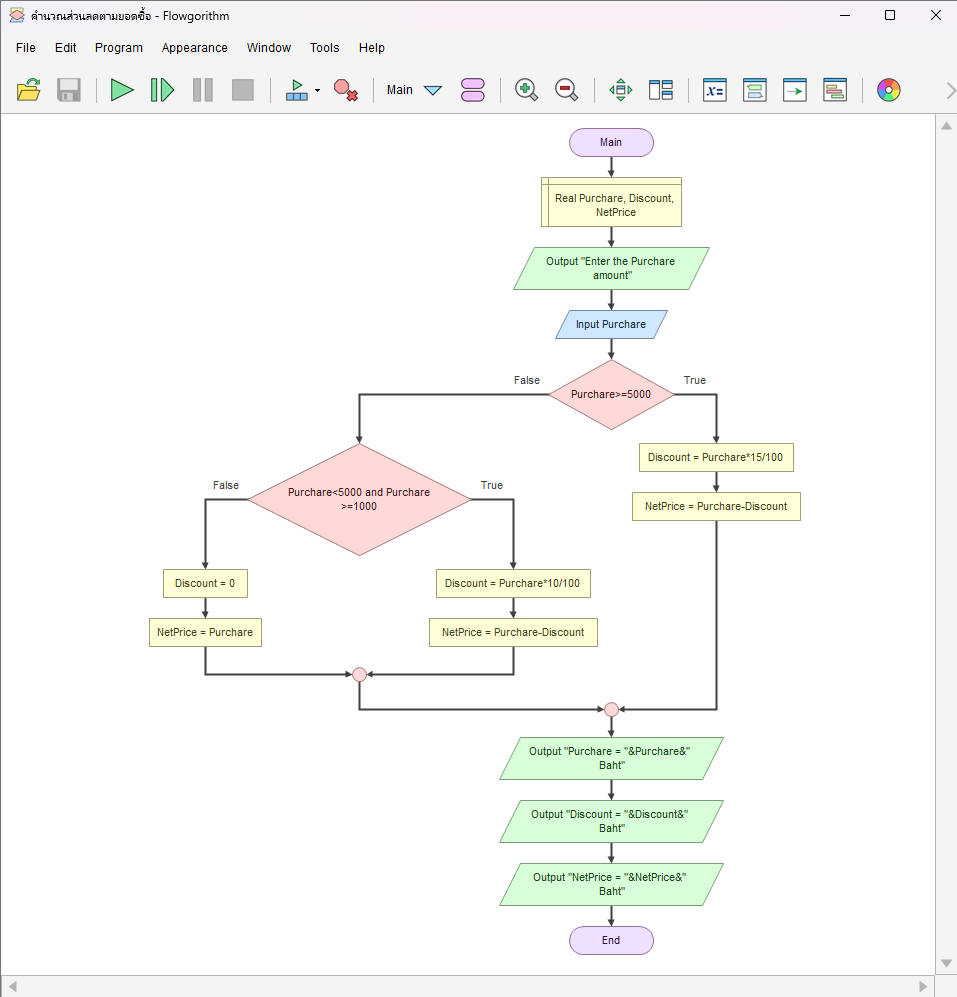
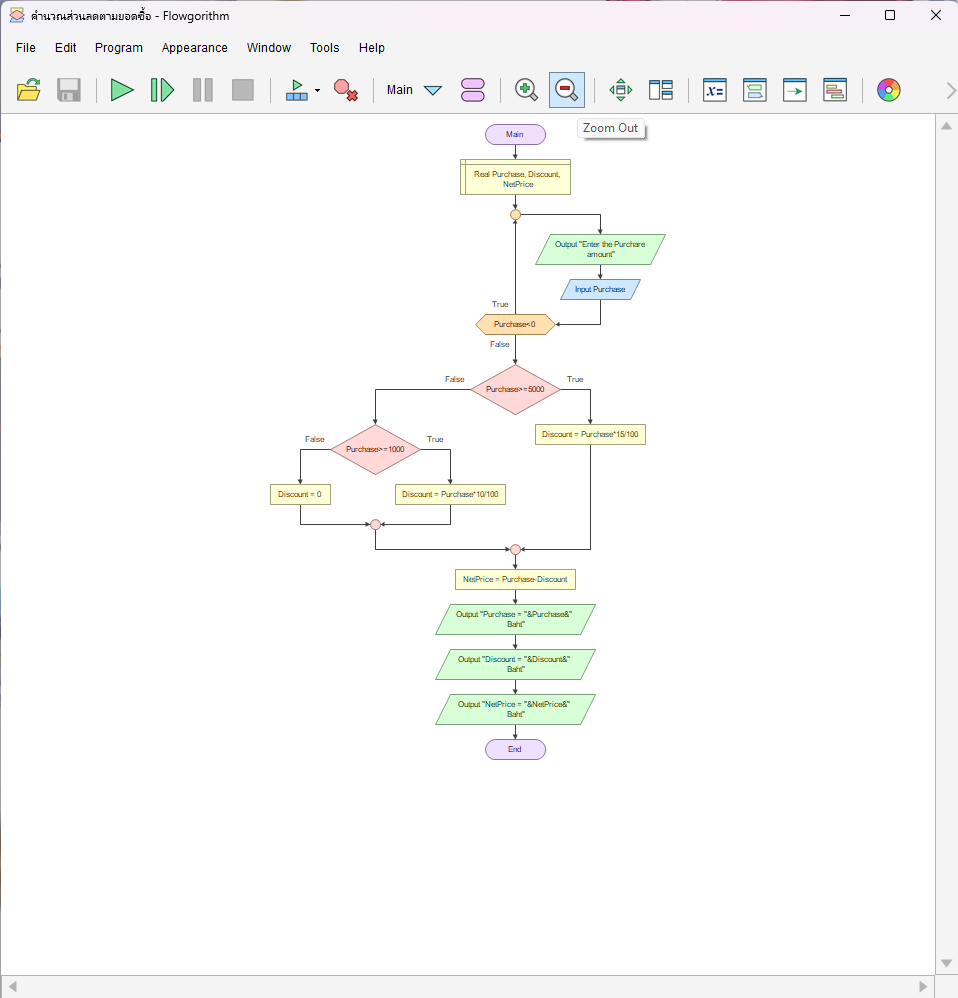
Update corrected discount and amusement park exercises

diff --git a/05-if-else-practice-2026-07-26/คำนวณส่วนลดตามยอดซื้อ.md b/05-if-else-practice-2026-07-26/คำนวณส่วนลดตามยอดซื้อ.md
@@ -2,13 +2,13 @@
 
 [← กลับหน้าหลัก](../README.md) · [ดาวน์โหลดไฟล์ Flowgorithm](<./คำนวณส่วนลดตามยอดซื้อ.fprg>)
 
-> **สถานะ:** บันทึกตามไฟล์ต้นฉบับของวันที่ 07/26/2026
+> **แบบฝึก:** 07/26/2026 · **อัปเดตล่าสุด:** 07/30/2026
 
 ## โจทย์
 
 รับยอดซื้อ แล้วคำนวณส่วนลดและราคาสุทธิตามช่วงยอดซื้อ
 
-**แนวคิดที่ฝึก:** การเลือกหลายช่วงด้วย `If...Else` แบบซ้อน
+**แนวคิดที่ฝึก:** การตรวจข้อมูลด้วย `Do...Loop` และการเลือกหลายช่วงด้วย `If...Else` แบบซ้อน
 
 ## ผังงานจาก Flowgorithm
 
@@ -20,24 +20,25 @@
 
 ```text
 เริ่มต้น
-    ประกาศ Real Purchare, Discount, NetPrice
-    แสดงผล "Enter the Purchare amount"
-    รับค่า Purchare
+    ประกาศ Real Purchase, Discount, NetPrice
 
-    ถ้า Purchare >= 5000 แล้ว
-        Discount = Purchare * 15 / 100
-        NetPrice = Purchare - Discount
+    ทำซ้ำ
+        แสดงผล "Enter the Purchare amount"
+        รับค่า Purchase
+    ขณะที่ Purchase < 0
+
+    ถ้า Purchase >= 5000 แล้ว
+        Discount = Purchase * 15 / 100
     มิฉะนั้น
-        ถ้า Purchare < 5000 และ Purchare >= 1000 แล้ว
-            Discount = Purchare * 10 / 100
-            NetPrice = Purchare - Discount
+        ถ้า Purchase >= 1000 แล้ว
+            Discount = Purchase * 10 / 100
         มิฉะนั้น
             Discount = 0
-            NetPrice = Purchare
         จบเงื่อนไข
     จบเงื่อนไข
 
-    แสดงผล "Purchare = " & Purchare & " Baht"
+    NetPrice = Purchase - Discount
+    แสดงผล "Purchase = " & Purchase & " Baht"
     แสดงผล "Discount = " & Discount & " Baht"
     แสดงผล "NetPrice = " & NetPrice & " Baht"
 จบการทำงาน

diff --git a/06-if-else-practice-2026-07-27/ค่าเข้าสวนสนุก.md b/06-if-else-practice-2026-07-27/ค่าเข้าสวนสนุก.md
@@ -2,13 +2,13 @@
 
 [← กลับหน้าหลัก](../README.md) · [ดาวน์โหลดไฟล์ Flowgorithm](<./ค่าเข้าสวนสนุก.fprg>)
 
-> **สถานะ:** บันทึกตามไฟล์ต้นฉบับของวันที่ 07/27/2026
+> **แบบฝึก:** 07/27/2026 · **อัปเดตล่าสุด:** 07/30/2026
 
 ## โจทย์
 
 รับอายุและส่วนสูงของผู้เข้าชม แล้วกำหนดราคาบัตรเข้าสวนสนุกตามเงื่อนไข
 
-**แนวคิดที่ฝึก:** การใช้ `If...Else` แบบซ้อนเพื่อตรวจหลายเงื่อนไข
+**แนวคิดที่ฝึก:** การตรวจข้อมูลด้วย `Do...Loop` และการใช้ `If...Else` แบบซ้อนเพื่อตรวจหลายเงื่อนไข
 
 ## ผังงานจาก Flowgorithm
 
@@ -22,16 +22,21 @@
 เริ่มต้น
     ประกาศ Integer age, height, ticketprice
 
-    แสดงผล "Enter Age"
-    รับค่า age
-    แสดงผล "Enter Height"
-    รับค่า height
+    ทำซ้ำ
+        แสดงผล "Enter Age (years)"
+        รับค่า age
+    ขณะที่ age <= 0
 
-    ถ้า age >= 0 และ age < 5 แล้ว
+    ทำซ้ำ
+        แสดงผล "Enter Height (cm)"
+        รับค่า height
+    ขณะที่ height <= 0
+
+    ถ้า age < 5 แล้ว
         ticketprice = 0
     มิฉะนั้น
-        ถ้า age >= 5 และ age <= 12 แล้ว
-            ถ้า height >= 0 และ height < 120 แล้ว
+        ถ้า age <= 12 แล้ว
+            ถ้า height < 120 แล้ว
                 ticketprice = 100
             มิฉะนั้น
                 ticketprice = 150
